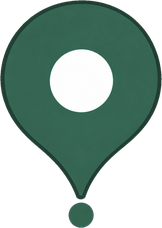
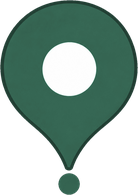
Pinos a 46, e o círculo na ponta do tracejado sai
Dois pedidos do Simão, a olhar para o mapa no telemóvel.

PINOS DE 54 PARA 46. Afinados a olho em quatro passos ao longo do dia:
30 → 42 → 54 → 46. Os 30 do princípio perdiam-se no meio dos nomes que o
Google desenha por baixo; os 54 mandavam de mais. Âncora medida outra vez no
ficheiro novo: 0,941.

O CÍRCULO SAI. Marcava onde o carro encosta, na ponta da linha aos pontinhos
— e a linha já o diz: o tracejado acaba exactamente aí. O anel era escuro e
grosso, e ao lado de um pino mais pequeno pesava mais do que aquilo que
servia: chamava a atenção para o sítio onde se ESPERA em vez do sítio para
onde se VAI.

A informação não se perdeu, mudou de quem a dá. A linha tracejada é desenhada
à parte e fica — confirmei antes de mexer, para não a levar atrás.

O ficheiro `assets/mapa/ponto-estrada.png` fica onde está: se um dia a linha
sozinha parecer vaga, ele volta mais pequeno e mais claro. O `require` é que
saiu, que já não tinha uso.

diff --git a/mobile/src/components/MapaGoogle.js b/mobile/src/components/MapaGoogle.js
@@ -54,8 +54,8 @@ const TINTA = { teal: '#007E78', tealAnel: '#009490', coral: '#FC5430' };
 // O TAMANHO DA IMAGEM DO PINO, em pontos. 54x76 é o que o
 // `scripts/recortar-novos-icones.py` produz — e é aqui que tem de bater
 // certo, porque a MIRA desenha a mesma imagem numa vista com estas medidas.
-const PINO_L = 54;
-const PINO_A = 76;
+const PINO_L = 46;
+const PINO_A = 65;
 const CARTAO_L = 150;
 
 // O PINO DENTRO DO MAPA É UMA IMAGEM, e não o componente <Pino>.
@@ -137,7 +137,6 @@ const VEICULO_IMAGEM = {
 // vista tem de ser recolocada a cada movimento, e recolocar depois do
 // movimento é vê-la a flutuar durante ele. Um marcador com imagem é
 // desenhado pelo mapa, agarrado à coordenada, e nunca se descola.
-const PONTO_ESTRADA = require('../../assets/mapa/ponto-estrada.png');
 const PONTO_OUTRO = require('../../assets/mapa/ponto-outro.png');
 // ONDE, DENTRO DA IMAGEM DO PINO, ESTÁ O SÍTIO QUE ELE MARCA.
 //
@@ -150,8 +149,8 @@ const PONTO_OUTRO = require('../../assets/mapa/ponto-outro.png');
 //
 // Agora é um número medido no PRÓPRIO ficheiro: o centro do ponto de baixo,
 // que é o que assenta no chão. Medido com
-// `scripts/recortar-novos-icones.py` a produzir 42x59, deu 0,9407.
-const ANCORA_Y = 0.9408;
+// `scripts/recortar-novos-icones.py` a produzir 46x65, deu 0,941.
+const ANCORA_Y = 0.941;
 
 // QUANTO A MIRA SOBE PARA A PONTA CAIR NO CENTRO DO ECRÃ.
 //
@@ -1218,15 +1217,16 @@ export default function MapaGoogle({
           />
         ))}
 
-        {trocosAPe.map((t) => (
-          <Marker
-            key={`ponto-${t.qual}`}
-            coordinate={{ latitude: t.para.lat, longitude: t.para.lng }}
-            anchor={{ x: 0.5, y: 0.5 }}
-            zIndex={900}
-            image={PONTO_ESTRADA}
-          />
-        ))}
+        {/* O CÍRCULO NA PONTA DO TRACEJADO SAIU (22/09/2026, pedido do
+            Simão). Marcava onde o carro encosta, e a linha aos pontinhos já
+            o diz: o tracejado acaba exactamente aí. O anel era escuro e
+            grosso, e ao lado de um pino pequeno pesava mais do que aquilo
+            que servia — chamava a atenção para o sítio onde se espera em vez
+            do sítio para onde se vai.
+
+            A informação não se perdeu: mudou de quem a dá. Se um dia a linha
+            sozinha parecer vaga, ele volta mais pequeno e mais claro — o
+            ficheiro fica em assets/mapa/ponto-estrada.png. */}
 
         {/* AS OUTRAS PARAGENS. Cinzentas e por baixo da que está posta.
             `title` e não um filho: um marcador com filhos é fotografado pelo

diff --git a/mobile/scripts/recortar-novos-icones.py b/mobile/scripts/recortar-novos-icones.py
@@ -77,13 +77,15 @@ ICONES = {
     'servico-flores': ('flores escura.jpg', 'icones', 30),
     'servico-encomenda': ('ncomenda escura.jpg', 'icones', 30),
     # ── os pinos do mapa ──
-    # 54 E NÃO 30 (22/09/2026, pedido do Simão, em dois passos: 42 e depois
-    # 54). Os pinos de 30 pontos
+    # 46 (22/09/2026, pedido do Simão, afinado a olho em três passos: 30 → 42
+    # → 54 → 46). Os 30 do princípio perdiam-se no meio dos nomes que o Google
+    # desenha por baixo; os 54 mandavam de mais. Quarenta e seis é onde ele
+    # parou. Os pinos de 30 pontos
     # perdiam-se no meio dos nomes e dos ícones que o Google desenha por
     # baixo. Quarenta por cento maiores, que é o que os põe a mandar na
     # imagem sem taparem a rua.
-    'pino-origem': ('pino de recolha.jpg', 'mapa', 54),
-    'pino-destino': ('pino de destino.jpg', 'mapa', 54),
+    'pino-origem': ('pino de recolha.jpg', 'mapa', 46),
+    'pino-destino': ('pino de destino.jpg', 'mapa', 46),
 }
 
 # OS VEÍCULOS NÃO PASSAM POR AQUI, e é o sítio certo para dizer porquê.
